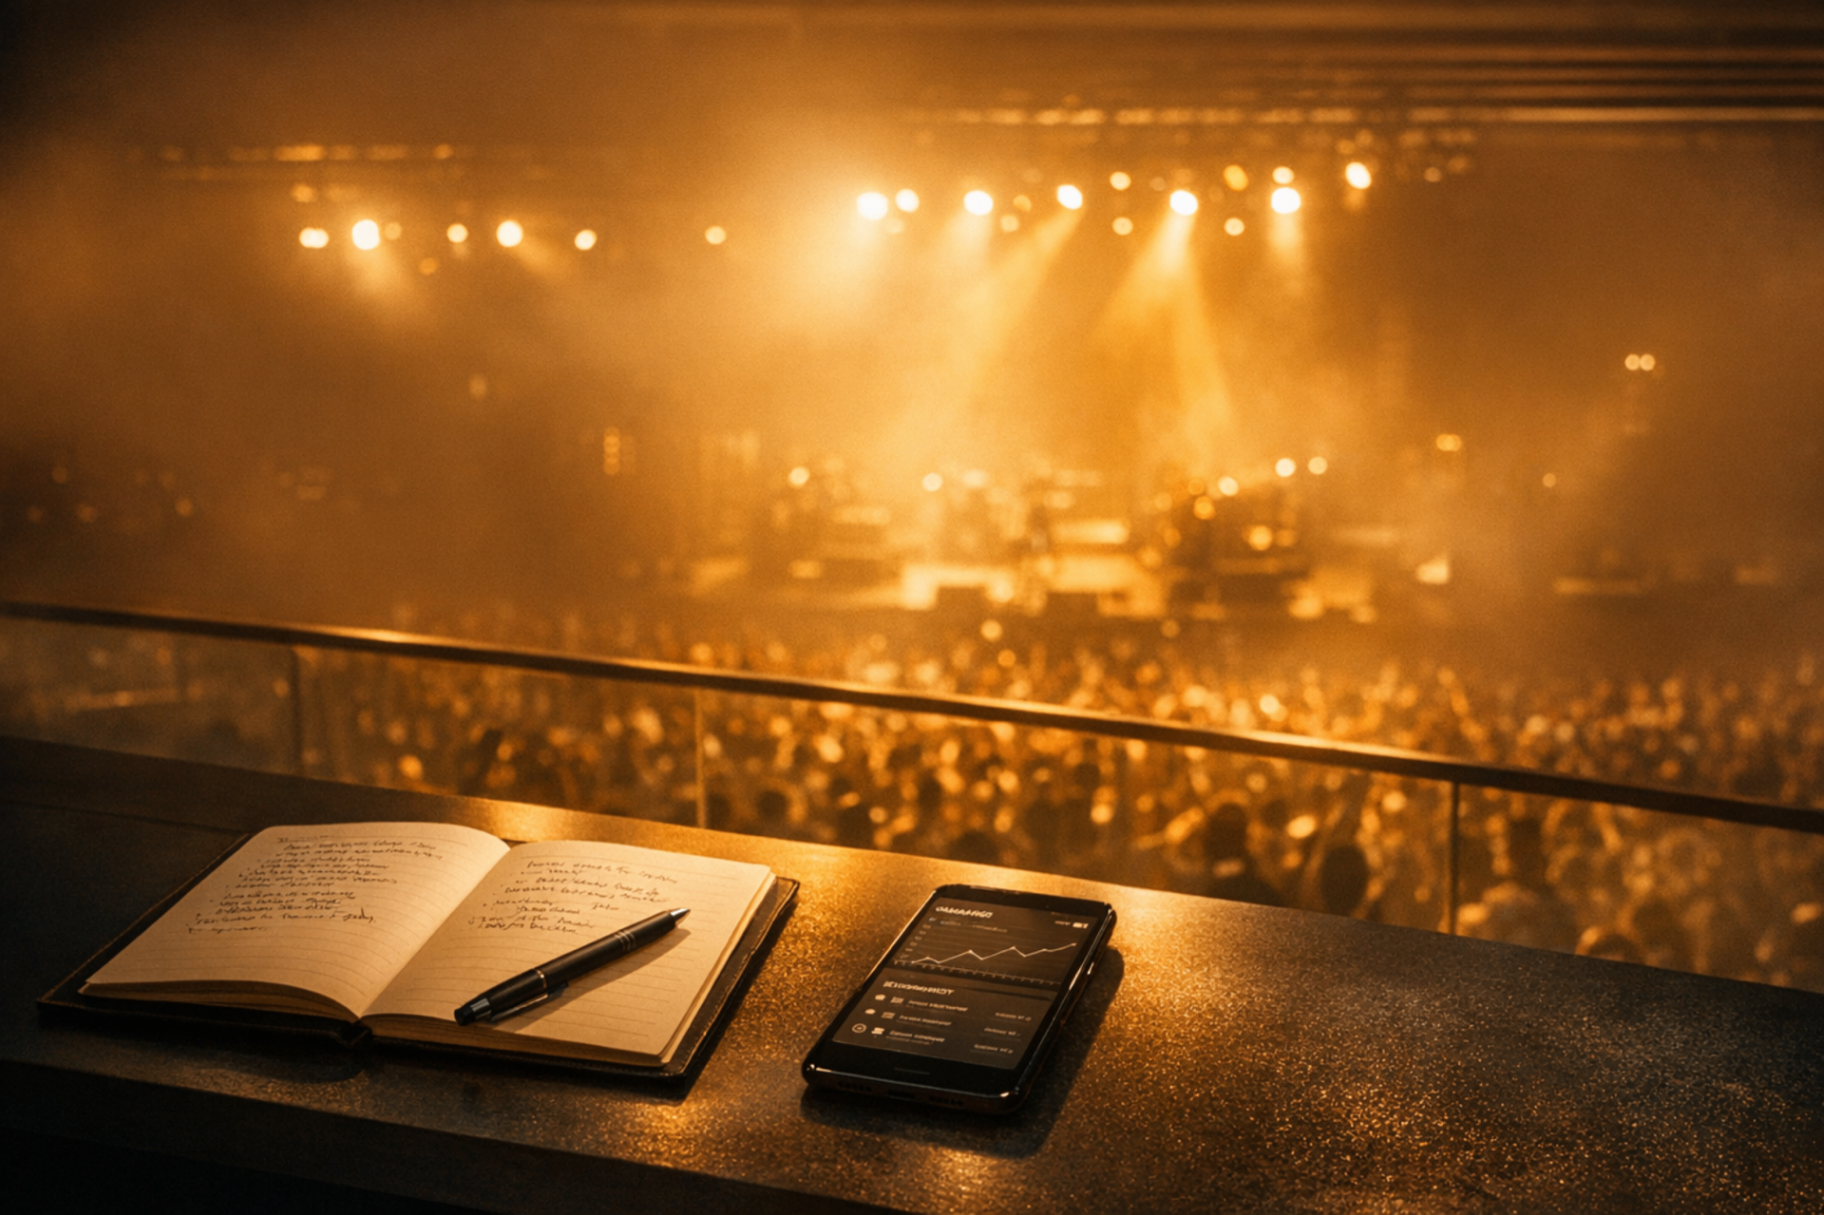
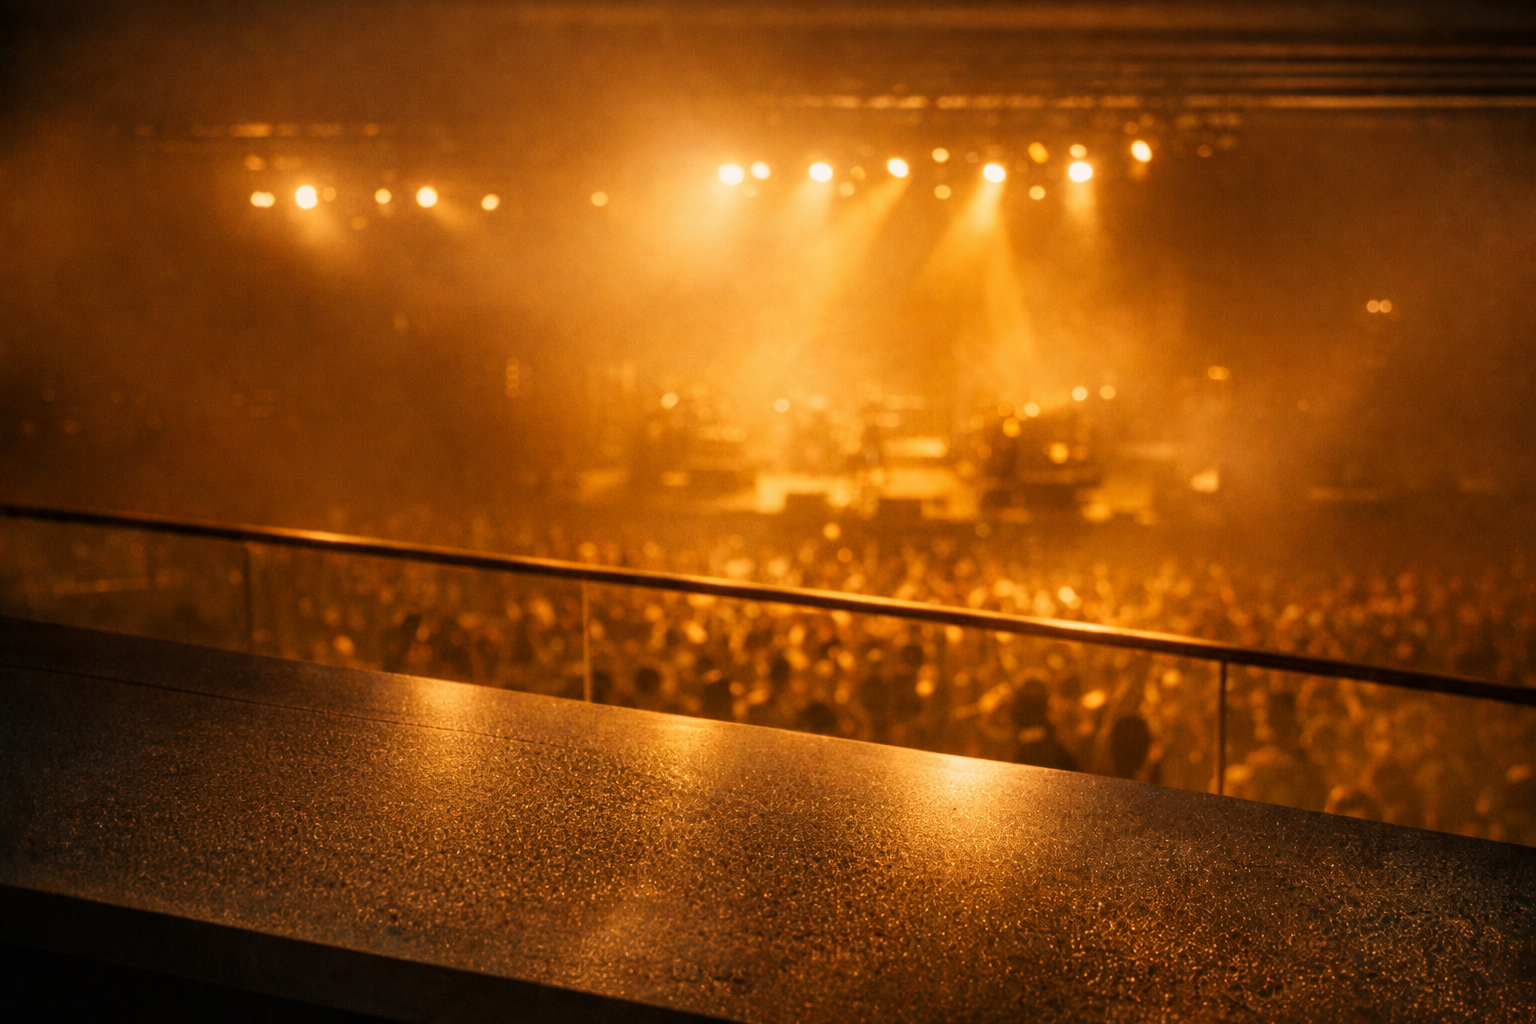
Changes

diff --git a/src/pages/auth/JoinBrand.tsx b/src/pages/auth/JoinBrand.tsx
@@ -10,7 +10,7 @@ import { supabase } from "@/integrations/supabase/client";
 import { toast } from "sonner";
 import { FlyMusicLogo } from "@/components/FlyMusicLogo";
 import TrustBadge from "@/components/trust/TrustBadge";
-import authHero from "@/assets/auth-hero-concert.png";
+import brandAuthHero from "@/assets/brand-auth-vip.png";
 
 export default function JoinBrand() {
   const { t } = useLanguage();
@@ -179,11 +179,12 @@ export default function JoinBrand() {
       {/* Right side - Hero image */}
       <div className="hidden lg:block lg:w-1/2 relative">
         <img
-          src={authHero}
+          src={brandAuthHero}
           alt="Brand collaboration"
           className="absolute inset-0 w-full h-full object-cover"
         />
-        <div className="absolute inset-0 bg-gradient-to-r from-background via-background/50 to-transparent" />
+        <div className="absolute inset-0 auth-gradient-animated" />
+        <div className="absolute inset-0 bg-gradient-to-r from-background via-background/40 to-transparent" />
       </div>
     </div>
   );

diff --git a/src/index.css b/src/index.css
@@ -96,7 +96,30 @@ All colors MUST be HSL.
     --timing-slow: 350ms;
     --timing-ceremonial: 500ms;
     --easing-elegant: cubic-bezier(0.4, 0, 0.2, 1);
-    --easing-soft: cubic-bezier(0.25, 0.1, 0.25, 1);
+  --easing-soft: cubic-bezier(0.25, 0.1, 0.25, 1);
+  }
+
+  /* Animated gradient overlay for auth backgrounds */
+  @keyframes gradient-shift {
+    0%, 100% {
+      background-position: 0% 50%;
+    }
+    50% {
+      background-position: 100% 50%;
+    }
+  }
+
+  .auth-gradient-animated {
+    background: linear-gradient(
+      135deg,
+      hsla(0, 0%, 0%, 0.7) 0%,
+      hsla(45, 82%, 51%, 0.1) 25%,
+      hsla(0, 0%, 0%, 0.5) 50%,
+      hsla(45, 82%, 51%, 0.15) 75%,
+      hsla(0, 0%, 0%, 0.7) 100%
+    );
+    background-size: 400% 400%;
+    animation: gradient-shift 8s ease infinite;
   }
 }
 

diff --git a/src/pages/auth/SignInBrand.tsx b/src/pages/auth/SignInBrand.tsx
@@ -157,7 +157,8 @@ export default function SignInBrand() {
           alt="Brand collaboration"
           className="absolute inset-0 w-full h-full object-cover"
         />
-        <div className="absolute inset-0 bg-gradient-to-r from-background via-background/50 to-transparent" />
+        <div className="absolute inset-0 auth-gradient-animated" />
+        <div className="absolute inset-0 bg-gradient-to-r from-background via-background/40 to-transparent" />
       </div>
     </div>
   );
